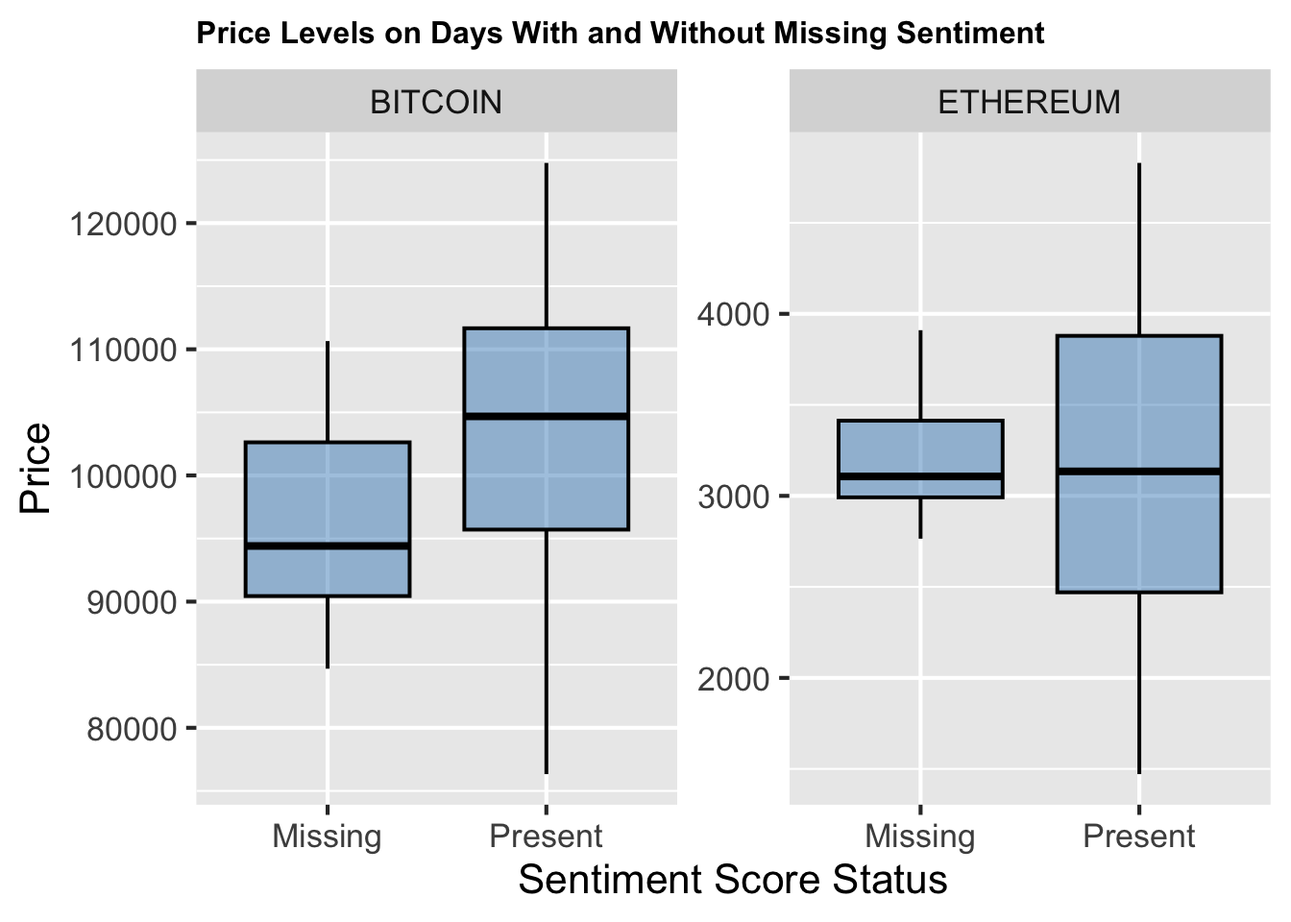
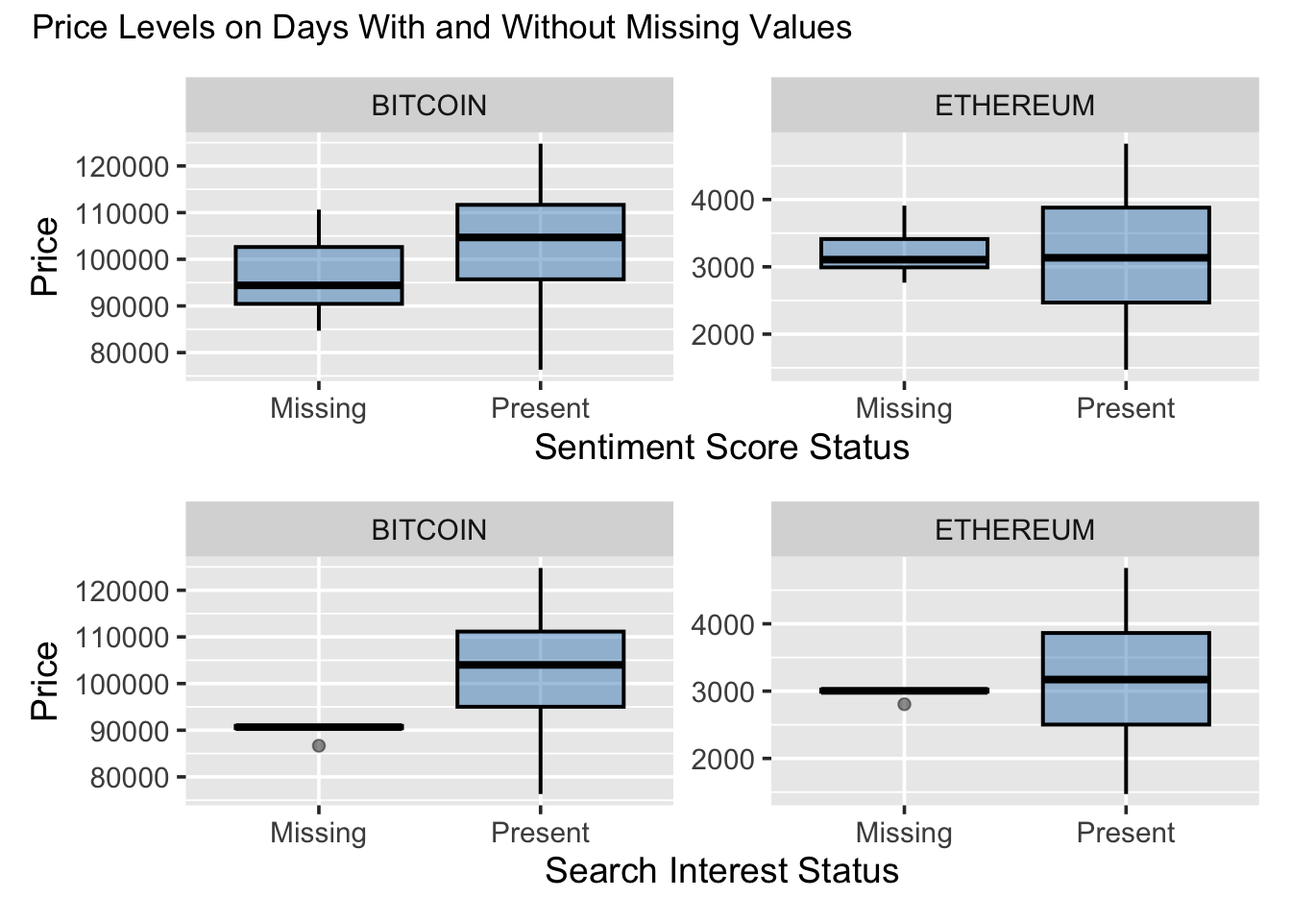
save

diff --git a/docs/data.html b/docs/data.html
@@ -279,10 +279,11 @@ Seven day rolling standard deviation of daily returns, used to capture short ter
 <span id="cb1-9"><a href="#cb1-9" aria-hidden="true" tabindex="-1"></a>  <span class="fu">library</span>(here)</span>
 <span id="cb1-10"><a href="#cb1-10" aria-hidden="true" tabindex="-1"></a>  <span class="fu">library</span>(scales)</span>
 <span id="cb1-11"><a href="#cb1-11" aria-hidden="true" tabindex="-1"></a>  <span class="fu">library</span>(zoo)</span>
-<span id="cb1-12"><a href="#cb1-12" aria-hidden="true" tabindex="-1"></a>})</span>
-<span id="cb1-13"><a href="#cb1-13" aria-hidden="true" tabindex="-1"></a></span>
-<span id="cb1-14"><a href="#cb1-14" aria-hidden="true" tabindex="-1"></a>df <span class="ot">&lt;-</span> <span class="fu">read_csv</span>(<span class="fu">here</span>(<span class="st">"data"</span>, <span class="st">"clean"</span>, <span class="st">"merged_crypto_sentiment_trends.csv"</span>), <span class="at">show_col_types =</span> <span class="cn">FALSE</span>) <span class="sc">|&gt;</span></span>
-<span id="cb1-15"><a href="#cb1-15" aria-hidden="true" tabindex="-1"></a>  janitor<span class="sc">::</span><span class="fu">clean_names</span>()</span></code><button title="Copy to Clipboard" class="code-copy-button"><i class="bi"></i></button></pre></div>
+<span id="cb1-12"><a href="#cb1-12" aria-hidden="true" tabindex="-1"></a>  <span class="fu">library</span>(patchwork)</span>
+<span id="cb1-13"><a href="#cb1-13" aria-hidden="true" tabindex="-1"></a>})</span>
+<span id="cb1-14"><a href="#cb1-14" aria-hidden="true" tabindex="-1"></a></span>
+<span id="cb1-15"><a href="#cb1-15" aria-hidden="true" tabindex="-1"></a>df <span class="ot">&lt;-</span> <span class="fu">read_csv</span>(<span class="fu">here</span>(<span class="st">"data"</span>, <span class="st">"clean"</span>, <span class="st">"merged_crypto_sentiment_trends.csv"</span>), <span class="at">show_col_types =</span> <span class="cn">FALSE</span>) <span class="sc">|&gt;</span></span>
+<span id="cb1-16"><a href="#cb1-16" aria-hidden="true" tabindex="-1"></a>  janitor<span class="sc">::</span><span class="fu">clean_names</span>()</span></code><button title="Copy to Clipboard" class="code-copy-button"><i class="bi"></i></button></pre></div>
 </details>
 </div>
 <div class="cell">
@@ -415,53 +416,29 @@ Seven day rolling standard deviation of daily returns, used to capture short ter
 <div class="cell">
 <details class="code-fold">
 <summary>Code</summary>
-<div class="sourceCode cell-code" id="cb5"><pre class="sourceCode r code-with-copy"><code class="sourceCode r"><span id="cb5-1"><a href="#cb5-1" aria-hidden="true" tabindex="-1"></a>df <span class="sc">|&gt;</span></span>
-<span id="cb5-2"><a href="#cb5-2" aria-hidden="true" tabindex="-1"></a>  <span class="fu">mutate</span>(</span>
-<span id="cb5-3"><a href="#cb5-3" aria-hidden="true" tabindex="-1"></a>    <span class="at">sent_missing =</span> <span class="fu">if_else</span>(<span class="fu">is.na</span>(sentiment_score), <span class="st">"Missing"</span>, <span class="st">"Present"</span>)</span>
-<span id="cb5-4"><a href="#cb5-4" aria-hidden="true" tabindex="-1"></a>  ) <span class="sc">|&gt;</span></span>
-<span id="cb5-5"><a href="#cb5-5" aria-hidden="true" tabindex="-1"></a>  <span class="fu">ggplot</span>(<span class="fu">aes</span>(<span class="at">x =</span> sent_missing, <span class="at">y =</span> price)) <span class="sc">+</span></span>
-<span id="cb5-6"><a href="#cb5-6" aria-hidden="true" tabindex="-1"></a>  <span class="fu">geom_boxplot</span>(<span class="at">fill =</span> <span class="st">"#3182bd"</span>, <span class="at">alpha =</span> <span class="fl">0.45</span>, <span class="at">color =</span> <span class="st">"black"</span>, <span class="at">linewidth =</span> <span class="fl">0.7</span>) <span class="sc">+</span></span>
-<span id="cb5-7"><a href="#cb5-7" aria-hidden="true" tabindex="-1"></a>  <span class="fu">facet_wrap</span>(<span class="sc">~</span> coin, <span class="at">ncol =</span> <span class="dv">2</span>, <span class="at">scales =</span> <span class="st">"free_y"</span>) <span class="sc">+</span></span>
-<span id="cb5-8"><a href="#cb5-8" aria-hidden="true" tabindex="-1"></a>  <span class="fu">labs</span>(</span>
-<span id="cb5-9"><a href="#cb5-9" aria-hidden="true" tabindex="-1"></a>    <span class="at">x =</span> <span class="st">"Sentiment Score Status"</span>,</span>
-<span id="cb5-10"><a href="#cb5-10" aria-hidden="true" tabindex="-1"></a>    <span class="at">y =</span> <span class="st">"Price"</span>,</span>
-<span id="cb5-11"><a href="#cb5-11" aria-hidden="true" tabindex="-1"></a>    <span class="at">title =</span> <span class="st">"Price Levels on Days With and Without Missing Sentiment"</span></span>
-<span id="cb5-12"><a href="#cb5-12" aria-hidden="true" tabindex="-1"></a>  ) <span class="sc">+</span></span>
-<span id="cb5-13"><a href="#cb5-13" aria-hidden="true" tabindex="-1"></a>  <span class="fu">theme_grey</span>(<span class="at">base_size =</span> <span class="dv">16</span>) <span class="sc">+</span></span>
-<span id="cb5-14"><a href="#cb5-14" aria-hidden="true" tabindex="-1"></a>  <span class="fu">theme</span>(</span>
-<span id="cb5-15"><a href="#cb5-15" aria-hidden="true" tabindex="-1"></a>    <span class="at">plot.title =</span> <span class="fu">element_text</span>(<span class="at">size =</span> <span class="dv">12</span>, <span class="at">face =</span> <span class="st">"bold"</span>)</span>
-<span id="cb5-16"><a href="#cb5-16" aria-hidden="true" tabindex="-1"></a>  )</span></code><button title="Copy to Clipboard" class="code-copy-button"><i class="bi"></i></button></pre></div>
+<div class="sourceCode cell-code" id="cb5"><pre class="sourceCode r code-with-copy"><code class="sourceCode r"><span id="cb5-1"><a href="#cb5-1" aria-hidden="true" tabindex="-1"></a>p1 <span class="ot">&lt;-</span> df <span class="sc">|&gt;</span></span>
+<span id="cb5-2"><a href="#cb5-2" aria-hidden="true" tabindex="-1"></a>  <span class="fu">mutate</span>(<span class="at">sent_missing =</span> <span class="fu">if_else</span>(<span class="fu">is.na</span>(sentiment_score), <span class="st">"Missing"</span>, <span class="st">"Present"</span>)) <span class="sc">|&gt;</span></span>
+<span id="cb5-3"><a href="#cb5-3" aria-hidden="true" tabindex="-1"></a>  <span class="fu">ggplot</span>(<span class="fu">aes</span>(<span class="at">x =</span> sent_missing, <span class="at">y =</span> price)) <span class="sc">+</span></span>
+<span id="cb5-4"><a href="#cb5-4" aria-hidden="true" tabindex="-1"></a>  <span class="fu">geom_boxplot</span>(<span class="at">fill =</span> <span class="st">"#3182bd"</span>, <span class="at">alpha =</span> <span class="fl">0.45</span>, <span class="at">color =</span> <span class="st">"black"</span>, <span class="at">linewidth =</span> <span class="fl">0.7</span>) <span class="sc">+</span></span>
+<span id="cb5-5"><a href="#cb5-5" aria-hidden="true" tabindex="-1"></a>  <span class="fu">facet_wrap</span>(<span class="sc">~</span> coin, <span class="at">ncol =</span> <span class="dv">2</span>, <span class="at">scales =</span> <span class="st">"free_y"</span>) <span class="sc">+</span></span>
+<span id="cb5-6"><a href="#cb5-6" aria-hidden="true" tabindex="-1"></a>  <span class="fu">labs</span>(<span class="at">x =</span> <span class="st">"Sentiment Score Status"</span>, <span class="at">y =</span> <span class="st">"Price"</span>) <span class="sc">+</span></span>
+<span id="cb5-7"><a href="#cb5-7" aria-hidden="true" tabindex="-1"></a>  <span class="fu">theme_grey</span>(<span class="at">base_size =</span> <span class="dv">14</span>)</span>
+<span id="cb5-8"><a href="#cb5-8" aria-hidden="true" tabindex="-1"></a></span>
+<span id="cb5-9"><a href="#cb5-9" aria-hidden="true" tabindex="-1"></a>p2 <span class="ot">&lt;-</span> df <span class="sc">|&gt;</span></span>
+<span id="cb5-10"><a href="#cb5-10" aria-hidden="true" tabindex="-1"></a>  <span class="fu">mutate</span>(<span class="at">search_missing =</span> <span class="fu">if_else</span>(<span class="fu">is.na</span>(search_interest), <span class="st">"Missing"</span>, <span class="st">"Present"</span>)) <span class="sc">|&gt;</span></span>
+<span id="cb5-11"><a href="#cb5-11" aria-hidden="true" tabindex="-1"></a>  <span class="fu">ggplot</span>(<span class="fu">aes</span>(<span class="at">x =</span> search_missing, <span class="at">y =</span> price)) <span class="sc">+</span></span>
+<span id="cb5-12"><a href="#cb5-12" aria-hidden="true" tabindex="-1"></a>  <span class="fu">geom_boxplot</span>(<span class="at">fill =</span> <span class="st">"#3182bd"</span>, <span class="at">alpha =</span> <span class="fl">0.45</span>, <span class="at">color =</span> <span class="st">"black"</span>, <span class="at">linewidth =</span> <span class="fl">0.7</span>) <span class="sc">+</span></span>
+<span id="cb5-13"><a href="#cb5-13" aria-hidden="true" tabindex="-1"></a>  <span class="fu">facet_wrap</span>(<span class="sc">~</span> coin, <span class="at">ncol =</span> <span class="dv">2</span>, <span class="at">scales =</span> <span class="st">"free_y"</span>) <span class="sc">+</span></span>
+<span id="cb5-14"><a href="#cb5-14" aria-hidden="true" tabindex="-1"></a>  <span class="fu">labs</span>(<span class="at">x =</span> <span class="st">"Search Interest Status"</span>, <span class="at">y =</span> <span class="st">"Price"</span>) <span class="sc">+</span></span>
+<span id="cb5-15"><a href="#cb5-15" aria-hidden="true" tabindex="-1"></a>  <span class="fu">theme_grey</span>(<span class="at">base_size =</span> <span class="dv">14</span>)</span>
+<span id="cb5-16"><a href="#cb5-16" aria-hidden="true" tabindex="-1"></a></span>
+<span id="cb5-17"><a href="#cb5-17" aria-hidden="true" tabindex="-1"></a>p1 <span class="sc">/</span> p2 <span class="sc">+</span> </span>
+<span id="cb5-18"><a href="#cb5-18" aria-hidden="true" tabindex="-1"></a>  <span class="fu">plot_annotation</span>(<span class="at">title =</span> <span class="st">"Price Levels on Days With and Without Missing Values"</span>)</span></code><button title="Copy to Clipboard" class="code-copy-button"><i class="bi"></i></button></pre></div>
 </details>
 <div class="cell-output-display">
 <div>
 <figure class="figure">
 <p><img src="data_files/figure-html/unnamed-chunk-5-1.png" class="img-fluid figure-img" width="672"></p>
-</figure>
-</div>
-</div>
-<details class="code-fold">
-<summary>Code</summary>
-<div class="sourceCode cell-code" id="cb6"><pre class="sourceCode r code-with-copy"><code class="sourceCode r"><span id="cb6-1"><a href="#cb6-1" aria-hidden="true" tabindex="-1"></a>df <span class="sc">|&gt;</span></span>
-<span id="cb6-2"><a href="#cb6-2" aria-hidden="true" tabindex="-1"></a>  <span class="fu">mutate</span>(</span>
-<span id="cb6-3"><a href="#cb6-3" aria-hidden="true" tabindex="-1"></a>    <span class="at">search_missing =</span> <span class="fu">if_else</span>(<span class="fu">is.na</span>(search_interest), <span class="st">"Missing"</span>, <span class="st">"Present"</span>)</span>
-<span id="cb6-4"><a href="#cb6-4" aria-hidden="true" tabindex="-1"></a>  ) <span class="sc">|&gt;</span></span>
-<span id="cb6-5"><a href="#cb6-5" aria-hidden="true" tabindex="-1"></a>  <span class="fu">ggplot</span>(<span class="fu">aes</span>(<span class="at">x =</span> search_missing, <span class="at">y =</span> price)) <span class="sc">+</span></span>
-<span id="cb6-6"><a href="#cb6-6" aria-hidden="true" tabindex="-1"></a>  <span class="fu">geom_boxplot</span>(<span class="at">fill =</span> <span class="st">"#3182bd"</span>, <span class="at">alpha =</span> <span class="fl">0.45</span>, <span class="at">color =</span> <span class="st">"black"</span>, <span class="at">linewidth =</span> <span class="fl">0.7</span>) <span class="sc">+</span></span>
-<span id="cb6-7"><a href="#cb6-7" aria-hidden="true" tabindex="-1"></a>  <span class="fu">facet_wrap</span>(<span class="sc">~</span> coin, <span class="at">ncol =</span> <span class="dv">2</span>, <span class="at">scales =</span> <span class="st">"free_y"</span>) <span class="sc">+</span></span>
-<span id="cb6-8"><a href="#cb6-8" aria-hidden="true" tabindex="-1"></a>  <span class="fu">labs</span>(</span>
-<span id="cb6-9"><a href="#cb6-9" aria-hidden="true" tabindex="-1"></a>    <span class="at">x =</span> <span class="st">"Search Interest Status"</span>,</span>
-<span id="cb6-10"><a href="#cb6-10" aria-hidden="true" tabindex="-1"></a>    <span class="at">y =</span> <span class="st">"Price"</span>,</span>
-<span id="cb6-11"><a href="#cb6-11" aria-hidden="true" tabindex="-1"></a>    <span class="at">title =</span> <span class="st">"Price Levels on Days With and Without Missing Search Interest"</span></span>
-<span id="cb6-12"><a href="#cb6-12" aria-hidden="true" tabindex="-1"></a>  ) <span class="sc">+</span></span>
-<span id="cb6-13"><a href="#cb6-13" aria-hidden="true" tabindex="-1"></a>  <span class="fu">theme_grey</span>(<span class="at">base_size =</span> <span class="dv">16</span>) <span class="sc">+</span></span>
-<span id="cb6-14"><a href="#cb6-14" aria-hidden="true" tabindex="-1"></a>  <span class="fu">theme</span>(</span>
-<span id="cb6-15"><a href="#cb6-15" aria-hidden="true" tabindex="-1"></a>    <span class="at">plot.title =</span> <span class="fu">element_text</span>(<span class="at">size =</span> <span class="dv">12</span>, <span class="at">face =</span> <span class="st">"bold"</span>)</span>
-<span id="cb6-16"><a href="#cb6-16" aria-hidden="true" tabindex="-1"></a>  )</span></code><button title="Copy to Clipboard" class="code-copy-button"><i class="bi"></i></button></pre></div>
-</details>
-<div class="cell-output-display">
-<div>
-<figure class="figure">
-<p><img src="data_files/figure-html/unnamed-chunk-5-2.png" class="img-fluid figure-img" width="672"></p>
 </figure>
 </div>
 </div>
@@ -475,24 +452,24 @@ Seven day rolling standard deviation of daily returns, used to capture short ter
 <div class="cell">
 <details class="code-fold">
 <summary>Code</summary>
-<div class="sourceCode cell-code" id="cb7"><pre class="sourceCode r code-with-copy"><code class="sourceCode r"><span id="cb7-1"><a href="#cb7-1" aria-hidden="true" tabindex="-1"></a>df_imputed <span class="ot">&lt;-</span> df <span class="sc">|&gt;</span></span>
-<span id="cb7-2"><a href="#cb7-2" aria-hidden="true" tabindex="-1"></a>  <span class="fu">arrange</span>(coin, date) <span class="sc">|&gt;</span></span>
-<span id="cb7-3"><a href="#cb7-3" aria-hidden="true" tabindex="-1"></a>  <span class="fu">group_by</span>(coin) <span class="sc">|&gt;</span></span>
-<span id="cb7-4"><a href="#cb7-4" aria-hidden="true" tabindex="-1"></a>  <span class="fu">mutate</span>(</span>
-<span id="cb7-5"><a href="#cb7-5" aria-hidden="true" tabindex="-1"></a>    <span class="at">sentiment_score_imp =</span> <span class="fu">na.approx</span>(sentiment_score, <span class="at">na.rm =</span> <span class="cn">FALSE</span>),</span>
-<span id="cb7-6"><a href="#cb7-6" aria-hidden="true" tabindex="-1"></a>    <span class="at">search_interest_imp =</span> <span class="fu">na.approx</span>(search_interest, <span class="at">na.rm =</span> <span class="cn">FALSE</span>),</span>
-<span id="cb7-7"><a href="#cb7-7" aria-hidden="true" tabindex="-1"></a>    <span class="at">daily_return_imp    =</span> daily_return,</span>
-<span id="cb7-8"><a href="#cb7-8" aria-hidden="true" tabindex="-1"></a>    <span class="at">volatility_7d_imp   =</span> volatility_7d</span>
-<span id="cb7-9"><a href="#cb7-9" aria-hidden="true" tabindex="-1"></a>  ) <span class="sc">|&gt;</span></span>
-<span id="cb7-10"><a href="#cb7-10" aria-hidden="true" tabindex="-1"></a>  <span class="fu">ungroup</span>()</span>
-<span id="cb7-11"><a href="#cb7-11" aria-hidden="true" tabindex="-1"></a></span>
-<span id="cb7-12"><a href="#cb7-12" aria-hidden="true" tabindex="-1"></a>df_imputed <span class="sc">|&gt;</span></span>
-<span id="cb7-13"><a href="#cb7-13" aria-hidden="true" tabindex="-1"></a>  <span class="fu">summarize</span>(</span>
-<span id="cb7-14"><a href="#cb7-14" aria-hidden="true" tabindex="-1"></a>    <span class="at">sentiment_original_NA =</span> <span class="fu">sum</span>(<span class="fu">is.na</span>(sentiment_score)),</span>
-<span id="cb7-15"><a href="#cb7-15" aria-hidden="true" tabindex="-1"></a>    <span class="at">sentiment_filled_NA   =</span> <span class="fu">sum</span>(<span class="fu">is.na</span>(sentiment_score_imp)),</span>
-<span id="cb7-16"><a href="#cb7-16" aria-hidden="true" tabindex="-1"></a>    <span class="at">search_original_NA    =</span> <span class="fu">sum</span>(<span class="fu">is.na</span>(search_interest)),</span>
-<span id="cb7-17"><a href="#cb7-17" aria-hidden="true" tabindex="-1"></a>    <span class="at">search_filled_NA      =</span> <span class="fu">sum</span>(<span class="fu">is.na</span>(search_interest_imp))</span>
-<span id="cb7-18"><a href="#cb7-18" aria-hidden="true" tabindex="-1"></a>  )</span></code><button title="Copy to Clipboard" class="code-copy-button"><i class="bi"></i></button></pre></div>
+<div class="sourceCode cell-code" id="cb6"><pre class="sourceCode r code-with-copy"><code class="sourceCode r"><span id="cb6-1"><a href="#cb6-1" aria-hidden="true" tabindex="-1"></a>df_imputed <span class="ot">&lt;-</span> df <span class="sc">|&gt;</span></span>
+<span id="cb6-2"><a href="#cb6-2" aria-hidden="true" tabindex="-1"></a>  <span class="fu">arrange</span>(coin, date) <span class="sc">|&gt;</span></span>
+<span id="cb6-3"><a href="#cb6-3" aria-hidden="true" tabindex="-1"></a>  <span class="fu">group_by</span>(coin) <span class="sc">|&gt;</span></span>
+<span id="cb6-4"><a href="#cb6-4" aria-hidden="true" tabindex="-1"></a>  <span class="fu">mutate</span>(</span>
+<span id="cb6-5"><a href="#cb6-5" aria-hidden="true" tabindex="-1"></a>    <span class="at">sentiment_score_imp =</span> <span class="fu">na.approx</span>(sentiment_score, <span class="at">na.rm =</span> <span class="cn">FALSE</span>),</span>
+<span id="cb6-6"><a href="#cb6-6" aria-hidden="true" tabindex="-1"></a>    <span class="at">search_interest_imp =</span> <span class="fu">na.approx</span>(search_interest, <span class="at">na.rm =</span> <span class="cn">FALSE</span>),</span>
+<span id="cb6-7"><a href="#cb6-7" aria-hidden="true" tabindex="-1"></a>    <span class="at">daily_return_imp    =</span> daily_return,</span>
+<span id="cb6-8"><a href="#cb6-8" aria-hidden="true" tabindex="-1"></a>    <span class="at">volatility_7d_imp   =</span> volatility_7d</span>
+<span id="cb6-9"><a href="#cb6-9" aria-hidden="true" tabindex="-1"></a>  ) <span class="sc">|&gt;</span></span>
+<span id="cb6-10"><a href="#cb6-10" aria-hidden="true" tabindex="-1"></a>  <span class="fu">ungroup</span>()</span>
+<span id="cb6-11"><a href="#cb6-11" aria-hidden="true" tabindex="-1"></a></span>
+<span id="cb6-12"><a href="#cb6-12" aria-hidden="true" tabindex="-1"></a>df_imputed <span class="sc">|&gt;</span></span>
+<span id="cb6-13"><a href="#cb6-13" aria-hidden="true" tabindex="-1"></a>  <span class="fu">summarize</span>(</span>
+<span id="cb6-14"><a href="#cb6-14" aria-hidden="true" tabindex="-1"></a>    <span class="at">sentiment_original_NA =</span> <span class="fu">sum</span>(<span class="fu">is.na</span>(sentiment_score)),</span>
+<span id="cb6-15"><a href="#cb6-15" aria-hidden="true" tabindex="-1"></a>    <span class="at">sentiment_filled_NA   =</span> <span class="fu">sum</span>(<span class="fu">is.na</span>(sentiment_score_imp)),</span>
+<span id="cb6-16"><a href="#cb6-16" aria-hidden="true" tabindex="-1"></a>    <span class="at">search_original_NA    =</span> <span class="fu">sum</span>(<span class="fu">is.na</span>(search_interest)),</span>
+<span id="cb6-17"><a href="#cb6-17" aria-hidden="true" tabindex="-1"></a>    <span class="at">search_filled_NA      =</span> <span class="fu">sum</span>(<span class="fu">is.na</span>(search_interest_imp))</span>
+<span id="cb6-18"><a href="#cb6-18" aria-hidden="true" tabindex="-1"></a>  )</span></code><button title="Copy to Clipboard" class="code-copy-button"><i class="bi"></i></button></pre></div>
 </details>
 </div>
 </section>
@@ -503,45 +480,45 @@ Seven day rolling standard deviation of daily returns, used to capture short ter
 <div class="cell" data-layout-align="center">
 <details class="code-fold">
 <summary>Code</summary>
-<div class="sourceCode cell-code" id="cb8"><pre class="sourceCode r code-with-copy"><code class="sourceCode r"><span id="cb8-1"><a href="#cb8-1" aria-hidden="true" tabindex="-1"></a>df_z <span class="ot">&lt;-</span> df <span class="sc">|&gt;</span></span>
-<span id="cb8-2"><a href="#cb8-2" aria-hidden="true" tabindex="-1"></a>  <span class="fu">mutate</span>(<span class="fu">across</span>(</span>
-<span id="cb8-3"><a href="#cb8-3" aria-hidden="true" tabindex="-1"></a>    <span class="fu">c</span>(price, volume, market_cap,</span>
-<span id="cb8-4"><a href="#cb8-4" aria-hidden="true" tabindex="-1"></a>      sentiment_score, search_interest,</span>
-<span id="cb8-5"><a href="#cb8-5" aria-hidden="true" tabindex="-1"></a>      daily_return, volatility_7d),</span>
-<span id="cb8-6"><a href="#cb8-6" aria-hidden="true" tabindex="-1"></a>    <span class="sc">~</span> <span class="fu">scale</span>(.)[,<span class="dv">1</span>],</span>
-<span id="cb8-7"><a href="#cb8-7" aria-hidden="true" tabindex="-1"></a>    <span class="at">.names =</span> <span class="st">"{.col}_z"</span></span>
-<span id="cb8-8"><a href="#cb8-8" aria-hidden="true" tabindex="-1"></a>  ))</span>
-<span id="cb8-9"><a href="#cb8-9" aria-hidden="true" tabindex="-1"></a></span>
-<span id="cb8-10"><a href="#cb8-10" aria-hidden="true" tabindex="-1"></a>df_z <span class="sc">|&gt;</span></span>
-<span id="cb8-11"><a href="#cb8-11" aria-hidden="true" tabindex="-1"></a>  <span class="fu">select</span>(coin, <span class="fu">ends_with</span>(<span class="st">"_z"</span>)) <span class="sc">|&gt;</span></span>
-<span id="cb8-12"><a href="#cb8-12" aria-hidden="true" tabindex="-1"></a>  <span class="fu">pivot_longer</span>(</span>
-<span id="cb8-13"><a href="#cb8-13" aria-hidden="true" tabindex="-1"></a>    <span class="at">cols =</span> <span class="fu">ends_with</span>(<span class="st">"_z"</span>),</span>
-<span id="cb8-14"><a href="#cb8-14" aria-hidden="true" tabindex="-1"></a>    <span class="at">names_to =</span> <span class="st">"variable"</span>,</span>
-<span id="cb8-15"><a href="#cb8-15" aria-hidden="true" tabindex="-1"></a>    <span class="at">values_to =</span> <span class="st">"z"</span></span>
-<span id="cb8-16"><a href="#cb8-16" aria-hidden="true" tabindex="-1"></a>  ) <span class="sc">|&gt;</span></span>
-<span id="cb8-17"><a href="#cb8-17" aria-hidden="true" tabindex="-1"></a>  <span class="fu">mutate</span>(</span>
-<span id="cb8-18"><a href="#cb8-18" aria-hidden="true" tabindex="-1"></a>    <span class="at">variable =</span> <span class="fu">gsub</span>(<span class="st">"_z"</span>, <span class="st">""</span>, variable),</span>
-<span id="cb8-19"><a href="#cb8-19" aria-hidden="true" tabindex="-1"></a>    <span class="at">variable =</span> <span class="fu">recode</span>(variable,</span>
-<span id="cb8-20"><a href="#cb8-20" aria-hidden="true" tabindex="-1"></a>      <span class="at">price =</span> <span class="st">"Price"</span>,</span>
-<span id="cb8-21"><a href="#cb8-21" aria-hidden="true" tabindex="-1"></a>      <span class="at">volume =</span> <span class="st">"Volume"</span>,</span>
-<span id="cb8-22"><a href="#cb8-22" aria-hidden="true" tabindex="-1"></a>      <span class="at">market_cap =</span> <span class="st">"Market Cap"</span>,</span>
-<span id="cb8-23"><a href="#cb8-23" aria-hidden="true" tabindex="-1"></a>      <span class="at">sentiment_score =</span> <span class="st">"Sentiment Score"</span>,</span>
-<span id="cb8-24"><a href="#cb8-24" aria-hidden="true" tabindex="-1"></a>      <span class="at">search_interest =</span> <span class="st">"Search Interest"</span>,</span>
-<span id="cb8-25"><a href="#cb8-25" aria-hidden="true" tabindex="-1"></a>      <span class="at">daily_return =</span> <span class="st">"Daily Return"</span>,</span>
-<span id="cb8-26"><a href="#cb8-26" aria-hidden="true" tabindex="-1"></a>      <span class="at">volatility_7d =</span> <span class="st">"7 Day Volatility"</span></span>
-<span id="cb8-27"><a href="#cb8-27" aria-hidden="true" tabindex="-1"></a>    )</span>
-<span id="cb8-28"><a href="#cb8-28" aria-hidden="true" tabindex="-1"></a>  ) <span class="sc">|&gt;</span></span>
-<span id="cb8-29"><a href="#cb8-29" aria-hidden="true" tabindex="-1"></a>  <span class="fu">ggplot</span>(<span class="fu">aes</span>(<span class="at">x =</span> coin, <span class="at">y =</span> z, <span class="at">fill =</span> coin)) <span class="sc">+</span></span>
-<span id="cb8-30"><a href="#cb8-30" aria-hidden="true" tabindex="-1"></a>  <span class="fu">geom_boxplot</span>(<span class="at">outlier.color =</span> <span class="st">"#e6550d"</span>, <span class="at">alpha =</span> <span class="fl">0.6</span>) <span class="sc">+</span></span>
-<span id="cb8-31"><a href="#cb8-31" aria-hidden="true" tabindex="-1"></a>  <span class="fu">geom_hline</span>(<span class="at">yintercept =</span> <span class="dv">3</span>,  <span class="at">linetype =</span> <span class="st">"dashed"</span>, <span class="at">color =</span> <span class="st">"red"</span>) <span class="sc">+</span></span>
-<span id="cb8-32"><a href="#cb8-32" aria-hidden="true" tabindex="-1"></a>  <span class="fu">geom_hline</span>(<span class="at">yintercept =</span> <span class="sc">-</span><span class="dv">3</span>, <span class="at">linetype =</span> <span class="st">"dashed"</span>, <span class="at">color =</span> <span class="st">"red"</span>) <span class="sc">+</span></span>
-<span id="cb8-33"><a href="#cb8-33" aria-hidden="true" tabindex="-1"></a>  <span class="fu">facet_wrap</span>(<span class="sc">~</span> variable, <span class="at">scales =</span> <span class="st">"free_y"</span>, <span class="at">ncol =</span> <span class="dv">3</span>) <span class="sc">+</span></span>
-<span id="cb8-34"><a href="#cb8-34" aria-hidden="true" tabindex="-1"></a>  <span class="fu">labs</span>(</span>
-<span id="cb8-35"><a href="#cb8-35" aria-hidden="true" tabindex="-1"></a>    <span class="at">title =</span> <span class="st">"Outlier Detection Using Standardized Z-Scores"</span>,</span>
-<span id="cb8-36"><a href="#cb8-36" aria-hidden="true" tabindex="-1"></a>    <span class="at">x =</span> <span class="st">"Coin"</span>,</span>
-<span id="cb8-37"><a href="#cb8-37" aria-hidden="true" tabindex="-1"></a>    <span class="at">y =</span> <span class="st">"Z-Score"</span></span>
-<span id="cb8-38"><a href="#cb8-38" aria-hidden="true" tabindex="-1"></a>  ) <span class="sc">+</span></span>
-<span id="cb8-39"><a href="#cb8-39" aria-hidden="true" tabindex="-1"></a>  <span class="fu">theme_grey</span>(<span class="at">base_size =</span> <span class="dv">15</span>) <span class="sc">+</span> <span class="fu">theme</span>(<span class="at">legend.position =</span> <span class="st">"none"</span>)</span></code><button title="Copy to Clipboard" class="code-copy-button"><i class="bi"></i></button></pre></div>
+<div class="sourceCode cell-code" id="cb7"><pre class="sourceCode r code-with-copy"><code class="sourceCode r"><span id="cb7-1"><a href="#cb7-1" aria-hidden="true" tabindex="-1"></a>df_z <span class="ot">&lt;-</span> df <span class="sc">|&gt;</span></span>
+<span id="cb7-2"><a href="#cb7-2" aria-hidden="true" tabindex="-1"></a>  <span class="fu">mutate</span>(<span class="fu">across</span>(</span>
+<span id="cb7-3"><a href="#cb7-3" aria-hidden="true" tabindex="-1"></a>    <span class="fu">c</span>(price, volume, market_cap,</span>
+<span id="cb7-4"><a href="#cb7-4" aria-hidden="true" tabindex="-1"></a>      sentiment_score, search_interest,</span>
+<span id="cb7-5"><a href="#cb7-5" aria-hidden="true" tabindex="-1"></a>      daily_return, volatility_7d),</span>
+<span id="cb7-6"><a href="#cb7-6" aria-hidden="true" tabindex="-1"></a>    <span class="sc">~</span> <span class="fu">scale</span>(.)[,<span class="dv">1</span>],</span>
+<span id="cb7-7"><a href="#cb7-7" aria-hidden="true" tabindex="-1"></a>    <span class="at">.names =</span> <span class="st">"{.col}_z"</span></span>
+<span id="cb7-8"><a href="#cb7-8" aria-hidden="true" tabindex="-1"></a>  ))</span>
+<span id="cb7-9"><a href="#cb7-9" aria-hidden="true" tabindex="-1"></a></span>
+<span id="cb7-10"><a href="#cb7-10" aria-hidden="true" tabindex="-1"></a>df_z <span class="sc">|&gt;</span></span>
+<span id="cb7-11"><a href="#cb7-11" aria-hidden="true" tabindex="-1"></a>  <span class="fu">select</span>(coin, <span class="fu">ends_with</span>(<span class="st">"_z"</span>)) <span class="sc">|&gt;</span></span>
+<span id="cb7-12"><a href="#cb7-12" aria-hidden="true" tabindex="-1"></a>  <span class="fu">pivot_longer</span>(</span>
+<span id="cb7-13"><a href="#cb7-13" aria-hidden="true" tabindex="-1"></a>    <span class="at">cols =</span> <span class="fu">ends_with</span>(<span class="st">"_z"</span>),</span>
+<span id="cb7-14"><a href="#cb7-14" aria-hidden="true" tabindex="-1"></a>    <span class="at">names_to =</span> <span class="st">"variable"</span>,</span>
+<span id="cb7-15"><a href="#cb7-15" aria-hidden="true" tabindex="-1"></a>    <span class="at">values_to =</span> <span class="st">"z"</span></span>
+<span id="cb7-16"><a href="#cb7-16" aria-hidden="true" tabindex="-1"></a>  ) <span class="sc">|&gt;</span></span>
+<span id="cb7-17"><a href="#cb7-17" aria-hidden="true" tabindex="-1"></a>  <span class="fu">mutate</span>(</span>
+<span id="cb7-18"><a href="#cb7-18" aria-hidden="true" tabindex="-1"></a>    <span class="at">variable =</span> <span class="fu">gsub</span>(<span class="st">"_z"</span>, <span class="st">""</span>, variable),</span>
+<span id="cb7-19"><a href="#cb7-19" aria-hidden="true" tabindex="-1"></a>    <span class="at">variable =</span> <span class="fu">recode</span>(variable,</span>
+<span id="cb7-20"><a href="#cb7-20" aria-hidden="true" tabindex="-1"></a>      <span class="at">price =</span> <span class="st">"Price"</span>,</span>
+<span id="cb7-21"><a href="#cb7-21" aria-hidden="true" tabindex="-1"></a>      <span class="at">volume =</span> <span class="st">"Volume"</span>,</span>
+<span id="cb7-22"><a href="#cb7-22" aria-hidden="true" tabindex="-1"></a>      <span class="at">market_cap =</span> <span class="st">"Market Cap"</span>,</span>
+<span id="cb7-23"><a href="#cb7-23" aria-hidden="true" tabindex="-1"></a>      <span class="at">sentiment_score =</span> <span class="st">"Sentiment Score"</span>,</span>
+<span id="cb7-24"><a href="#cb7-24" aria-hidden="true" tabindex="-1"></a>      <span class="at">search_interest =</span> <span class="st">"Search Interest"</span>,</span>
+<span id="cb7-25"><a href="#cb7-25" aria-hidden="true" tabindex="-1"></a>      <span class="at">daily_return =</span> <span class="st">"Daily Return"</span>,</span>
+<span id="cb7-26"><a href="#cb7-26" aria-hidden="true" tabindex="-1"></a>      <span class="at">volatility_7d =</span> <span class="st">"7 Day Volatility"</span></span>
+<span id="cb7-27"><a href="#cb7-27" aria-hidden="true" tabindex="-1"></a>    )</span>
+<span id="cb7-28"><a href="#cb7-28" aria-hidden="true" tabindex="-1"></a>  ) <span class="sc">|&gt;</span></span>
+<span id="cb7-29"><a href="#cb7-29" aria-hidden="true" tabindex="-1"></a>  <span class="fu">ggplot</span>(<span class="fu">aes</span>(<span class="at">x =</span> coin, <span class="at">y =</span> z, <span class="at">fill =</span> coin)) <span class="sc">+</span></span>
+<span id="cb7-30"><a href="#cb7-30" aria-hidden="true" tabindex="-1"></a>  <span class="fu">geom_boxplot</span>(<span class="at">outlier.color =</span> <span class="st">"#e6550d"</span>, <span class="at">alpha =</span> <span class="fl">0.6</span>) <span class="sc">+</span></span>
+<span id="cb7-31"><a href="#cb7-31" aria-hidden="true" tabindex="-1"></a>  <span class="fu">geom_hline</span>(<span class="at">yintercept =</span> <span class="dv">3</span>,  <span class="at">linetype =</span> <span class="st">"dashed"</span>, <span class="at">color =</span> <span class="st">"red"</span>) <span class="sc">+</span></span>
+<span id="cb7-32"><a href="#cb7-32" aria-hidden="true" tabindex="-1"></a>  <span class="fu">geom_hline</span>(<span class="at">yintercept =</span> <span class="sc">-</span><span class="dv">3</span>, <span class="at">linetype =</span> <span class="st">"dashed"</span>, <span class="at">color =</span> <span class="st">"red"</span>) <span class="sc">+</span></span>
+<span id="cb7-33"><a href="#cb7-33" aria-hidden="true" tabindex="-1"></a>  <span class="fu">facet_wrap</span>(<span class="sc">~</span> variable, <span class="at">scales =</span> <span class="st">"free_y"</span>, <span class="at">ncol =</span> <span class="dv">3</span>) <span class="sc">+</span></span>
+<span id="cb7-34"><a href="#cb7-34" aria-hidden="true" tabindex="-1"></a>  <span class="fu">labs</span>(</span>
+<span id="cb7-35"><a href="#cb7-35" aria-hidden="true" tabindex="-1"></a>    <span class="at">title =</span> <span class="st">"Outlier Detection Using Standardized Z-Scores"</span>,</span>
+<span id="cb7-36"><a href="#cb7-36" aria-hidden="true" tabindex="-1"></a>    <span class="at">x =</span> <span class="st">"Coin"</span>,</span>
+<span id="cb7-37"><a href="#cb7-37" aria-hidden="true" tabindex="-1"></a>    <span class="at">y =</span> <span class="st">"Z-Score"</span></span>
+<span id="cb7-38"><a href="#cb7-38" aria-hidden="true" tabindex="-1"></a>  ) <span class="sc">+</span></span>
+<span id="cb7-39"><a href="#cb7-39" aria-hidden="true" tabindex="-1"></a>  <span class="fu">theme_grey</span>(<span class="at">base_size =</span> <span class="dv">15</span>) <span class="sc">+</span> <span class="fu">theme</span>(<span class="at">legend.position =</span> <span class="st">"none"</span>)</span></code><button title="Copy to Clipboard" class="code-copy-button"><i class="bi"></i></button></pre></div>
 </details>
 <div class="cell-output-display">
 <div class="quarto-figure quarto-figure-center">
@@ -556,28 +533,28 @@ Seven day rolling standard deviation of daily returns, used to capture short ter
 <div class="cell">
 <details class="code-fold">
 <summary>Code</summary>
-<div class="sourceCode cell-code" id="cb9"><pre class="sourceCode r code-with-copy"><code class="sourceCode r"><span id="cb9-1"><a href="#cb9-1" aria-hidden="true" tabindex="-1"></a><span class="co"># Create the final cleaned dataset for exploration</span></span>
-<span id="cb9-2"><a href="#cb9-2" aria-hidden="true" tabindex="-1"></a><span class="co"># Use imputed sentiment and search interest</span></span>
-<span id="cb9-3"><a href="#cb9-3" aria-hidden="true" tabindex="-1"></a><span class="co"># Retain derived metrics as originally computed</span></span>
-<span id="cb9-4"><a href="#cb9-4" aria-hidden="true" tabindex="-1"></a></span>
-<span id="cb9-5"><a href="#cb9-5" aria-hidden="true" tabindex="-1"></a>df_final <span class="ot">&lt;-</span> df_imputed <span class="sc">|&gt;</span></span>
-<span id="cb9-6"><a href="#cb9-6" aria-hidden="true" tabindex="-1"></a>  <span class="fu">transmute</span>(</span>
-<span id="cb9-7"><a href="#cb9-7" aria-hidden="true" tabindex="-1"></a>    date,</span>
-<span id="cb9-8"><a href="#cb9-8" aria-hidden="true" tabindex="-1"></a>    coin,</span>
-<span id="cb9-9"><a href="#cb9-9" aria-hidden="true" tabindex="-1"></a>    price,</span>
-<span id="cb9-10"><a href="#cb9-10" aria-hidden="true" tabindex="-1"></a>    volume,</span>
-<span id="cb9-11"><a href="#cb9-11" aria-hidden="true" tabindex="-1"></a>    market_cap,</span>
-<span id="cb9-12"><a href="#cb9-12" aria-hidden="true" tabindex="-1"></a>    <span class="at">sentiment_score =</span> sentiment_score_imp,</span>
-<span id="cb9-13"><a href="#cb9-13" aria-hidden="true" tabindex="-1"></a>    <span class="at">search_interest =</span> search_interest_imp,</span>
-<span id="cb9-14"><a href="#cb9-14" aria-hidden="true" tabindex="-1"></a>    <span class="at">daily_return    =</span> daily_return_imp,</span>
-<span id="cb9-15"><a href="#cb9-15" aria-hidden="true" tabindex="-1"></a>    <span class="at">volatility_7d   =</span> volatility_7d_imp</span>
-<span id="cb9-16"><a href="#cb9-16" aria-hidden="true" tabindex="-1"></a>  )</span>
-<span id="cb9-17"><a href="#cb9-17" aria-hidden="true" tabindex="-1"></a></span>
-<span id="cb9-18"><a href="#cb9-18" aria-hidden="true" tabindex="-1"></a><span class="co"># Save to clean data folder</span></span>
-<span id="cb9-19"><a href="#cb9-19" aria-hidden="true" tabindex="-1"></a><span class="fu">write_csv</span>(</span>
-<span id="cb9-20"><a href="#cb9-20" aria-hidden="true" tabindex="-1"></a>  df_final,</span>
-<span id="cb9-21"><a href="#cb9-21" aria-hidden="true" tabindex="-1"></a>  <span class="fu">here</span>(<span class="st">"data"</span>, <span class="st">"clean"</span>, <span class="st">"crypto_final_clean.csv"</span>)</span>
-<span id="cb9-22"><a href="#cb9-22" aria-hidden="true" tabindex="-1"></a>)</span></code><button title="Copy to Clipboard" class="code-copy-button"><i class="bi"></i></button></pre></div>
+<div class="sourceCode cell-code" id="cb8"><pre class="sourceCode r code-with-copy"><code class="sourceCode r"><span id="cb8-1"><a href="#cb8-1" aria-hidden="true" tabindex="-1"></a><span class="co"># Create the final cleaned dataset for exploration</span></span>
+<span id="cb8-2"><a href="#cb8-2" aria-hidden="true" tabindex="-1"></a><span class="co"># Use imputed sentiment and search interest</span></span>
+<span id="cb8-3"><a href="#cb8-3" aria-hidden="true" tabindex="-1"></a><span class="co"># Retain derived metrics as originally computed</span></span>
+<span id="cb8-4"><a href="#cb8-4" aria-hidden="true" tabindex="-1"></a></span>
+<span id="cb8-5"><a href="#cb8-5" aria-hidden="true" tabindex="-1"></a>df_final <span class="ot">&lt;-</span> df_imputed <span class="sc">|&gt;</span></span>
+<span id="cb8-6"><a href="#cb8-6" aria-hidden="true" tabindex="-1"></a>  <span class="fu">transmute</span>(</span>
+<span id="cb8-7"><a href="#cb8-7" aria-hidden="true" tabindex="-1"></a>    date,</span>
+<span id="cb8-8"><a href="#cb8-8" aria-hidden="true" tabindex="-1"></a>    coin,</span>
+<span id="cb8-9"><a href="#cb8-9" aria-hidden="true" tabindex="-1"></a>    price,</span>
+<span id="cb8-10"><a href="#cb8-10" aria-hidden="true" tabindex="-1"></a>    volume,</span>
+<span id="cb8-11"><a href="#cb8-11" aria-hidden="true" tabindex="-1"></a>    market_cap,</span>
+<span id="cb8-12"><a href="#cb8-12" aria-hidden="true" tabindex="-1"></a>    <span class="at">sentiment_score =</span> sentiment_score_imp,</span>
+<span id="cb8-13"><a href="#cb8-13" aria-hidden="true" tabindex="-1"></a>    <span class="at">search_interest =</span> search_interest_imp,</span>
+<span id="cb8-14"><a href="#cb8-14" aria-hidden="true" tabindex="-1"></a>    <span class="at">daily_return    =</span> daily_return_imp,</span>
+<span id="cb8-15"><a href="#cb8-15" aria-hidden="true" tabindex="-1"></a>    <span class="at">volatility_7d   =</span> volatility_7d_imp</span>
+<span id="cb8-16"><a href="#cb8-16" aria-hidden="true" tabindex="-1"></a>  )</span>
+<span id="cb8-17"><a href="#cb8-17" aria-hidden="true" tabindex="-1"></a></span>
+<span id="cb8-18"><a href="#cb8-18" aria-hidden="true" tabindex="-1"></a><span class="co"># Save to clean data folder</span></span>
+<span id="cb8-19"><a href="#cb8-19" aria-hidden="true" tabindex="-1"></a><span class="fu">write_csv</span>(</span>
+<span id="cb8-20"><a href="#cb8-20" aria-hidden="true" tabindex="-1"></a>  df_final,</span>
+<span id="cb8-21"><a href="#cb8-21" aria-hidden="true" tabindex="-1"></a>  <span class="fu">here</span>(<span class="st">"data"</span>, <span class="st">"clean"</span>, <span class="st">"crypto_final_clean.csv"</span>)</span>
+<span id="cb8-22"><a href="#cb8-22" aria-hidden="true" tabindex="-1"></a>)</span></code><button title="Copy to Clipboard" class="code-copy-button"><i class="bi"></i></button></pre></div>
 </details>
 </div>
 

diff --git a/docs/conclusion.html b/docs/conclusion.html
@@ -162,6 +162,8 @@ ul.task-list li input[type="checkbox"] {
 </header>
 
 
+<p>This exploratory analysis examined whether online sentiment and search interest reveal meaningful patterns in Bitcoin and Ethereum markets. The main takeaway is that behavioral signals move alongside prices and volatility but do not reliably lead them—sentiment and search interest reflect market mood rather than predict it. Among the two signals, sentiment shows a modest connection to next-day returns for Ethereum, while search interest provides almost no useful signal for either coin. A consistent finding across all analyses is that Ethereum responds more strongly to behavioral indicators than Bitcoin does, likely because its market is smaller and more sensitive to shifts in attention and attitudes.</p>
+<p>Several limitations constrain these findings. The dataset spans only one year due to free-tier API restrictions, which may not capture longer-term patterns or rare market regimes. Sentiment and search data required imputation for roughly 8% of days, and while the gaps appeared unrelated to price behavior, any imputation introduces uncertainty. The analysis is purely descriptive; no causal claims can be made about whether sentiment influences prices or simply reacts to them. Future work could extend the time window using paid data access, incorporate additional cryptocurrencies to test whether Ethereum’s heightened sensitivity generalizes to other altcoins, or apply time-series modeling to more rigorously test lead-lag relationships. The main lesson learned is that behavioral data in crypto markets is noisy and reactive—useful for understanding market mood in real time, but unlikely to offer a simple edge for anticipating what comes next.</p>
 
 
 
